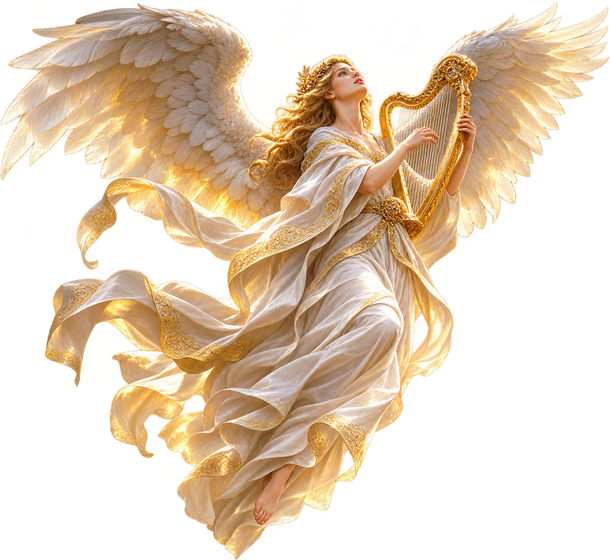
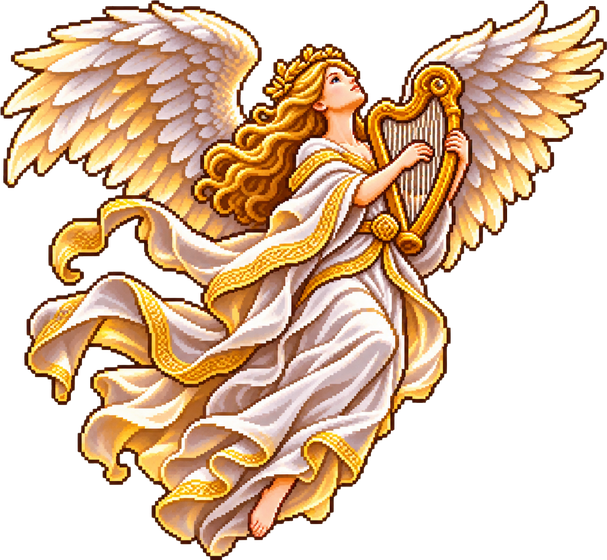
Công Giáo Live 1.0.11: 8-bit angels facing Jesus
Claude-Session: https://claude.ai/code/session_018LSVv66js5ngJs473iHyim

diff --git a/app/stage/stage.js b/app/stage/stage.js
@@ -688,7 +688,10 @@ function drawBgFigures() {
       const sp = f.speed || 0.8, ph = f.ph || 0, h = f.h, wd = h * im.naturalWidth / im.naturalHeight;
       const x = f.x + Math.sin(now * sp * 0.5 + ph) * (f.sway || 0), y = f.y + Math.sin(now * sp + ph) * (f.bob || 0);
       if (f.glow && fxOn()) { ctx.save(); ctx.globalCompositeOperation = 'lighter'; drawGlow(x, y, h * 0.62, f.glow, 0.22 * w * (0.85 + 0.15 * Math.sin(now * 1.3 + ph))); ctx.restore(); }
-      ctx.save(); ctx.globalAlpha = w * (f.alpha ?? 1); ctx.translate(x, y); if (f.flip) ctx.scale(-1, 1); if (f.tilt) ctx.rotate(Math.sin(now * 0.6 + ph) * f.tilt);
+      ctx.save(); ctx.globalAlpha = w * (f.alpha ?? 1); // thiên thần luôn quay mặt về phía hình Chúa
+      let flip = !!f.flip;
+      if (f.facing) { const lord = (d.figures || []).find(g => /jesus|chua/i.test(g.file)); const tx = lord ? lord.x : W / 2; flip = (f.facing === 'right') ? x > tx : x < tx; }
+      ctx.translate(x, y); if (flip) ctx.scale(-1, 1); if (f.tilt) ctx.rotate(Math.sin(now * 0.6 + ph) * f.tilt);
       if (isPixel() && !f.pixelArt) { // hình Chúa / thiên thần dạng 8-bit, cùng cỡ điểm ảnh với ảnh nền
         const n = Math.max(120, Math.min(540, (cfg.style && cfg.style.bgPixels) || 270)), ph = Math.round(h * n / W);
         if (!im._pix || im._pixH !== ph) { im._pix = pixelateCanvas(im, ph * wd / h, ph, { levels: 8, saturate: 1.15, alphaCut: 90 }); im._pixH = ph; }
